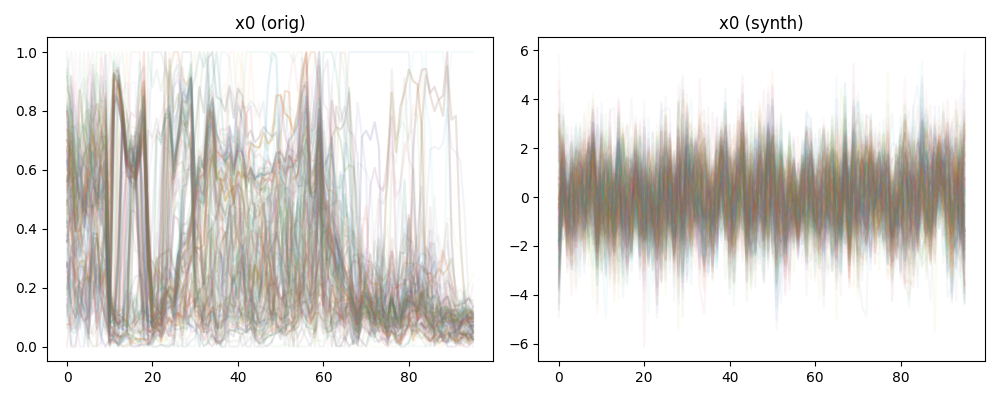
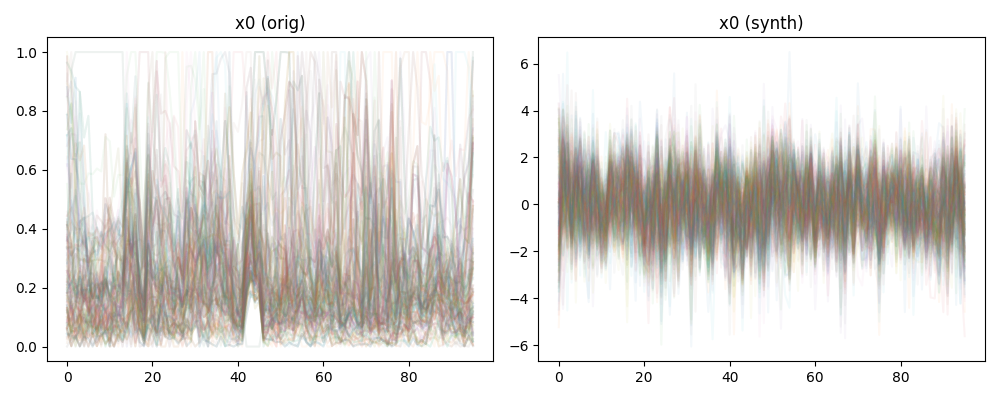
add

Changed region(s): [[0.062, 0.12, 0.527, 0.87], [0.558, 0.24, 0.992, 0.78], [0.496, 0.12, 0.527, 0.18]]

diff --git a/exp/exp_second_round/eva/evaconditionalgen/eva_function.py b/exp/exp_second_round/eva/evaconditionalgen/eva_function.py
@@ -225,7 +225,7 @@ def plot_mmd_comparison(mmd_rr_part_collection, mmd_rt_collection, mmd_rtimesnet
 
     plt.show()
 
-def plot_colored_curves(ax, data, title, total_consumption, color_map, norm, y_min, y_max, alpha=0.2, tick_fontsize=20, display_title=True, title_fontsize=30):
+def plot_colored_curves(num, ax, data, title, total_consumption, color_map, norm, y_min, y_max, alpha=0.2, tick_fontsize=20, display_title=True, title_fontsize=30):
     for i in range(data.shape[0]):
         color = color_map(norm(total_consumption[i]))
         ax.plot(data[i], c=color, alpha=alpha)
@@ -242,6 +242,10 @@ def plot_colored_curves(ax, data, title, total_consumption, color_map, norm, y_m
     ax.set_xticklabels(hours, fontsize=tick_fontsize)
     # Rotate the x-axis labels for better readability
     plt.setp(ax.get_xticklabels(), rotation=45, ha='right', rotation_mode='anchor')
+    # add a small text box to indicate the num
+    text = "Sample Index: {}".format(num)
+    ax.text(0.02, 0.95, text, transform=ax.transAxes, fontsize=tick_fontsize, verticalalignment='top', bbox=dict(boxstyle='round', facecolor='white', alpha=0.5))
+    
 
 def create_plots(t_samples_list, r_samples_list, r_samples_part_list, timesnet_sample_list, path, label_fontsize=26, tick_fontsize=20):
     # Determine the number of rows based on the number of sample sets
@@ -270,11 +274,11 @@ def create_plots(t_samples_list, r_samples_list, r_samples_part_list, timesnet_s
         title_fontsize = label_fontsize if display_title else 0  # Increase font size for the first row titles
 
         # Define titles only for the first row
-        titles = ['Complete ECP Data', 'Sampled Data', 'Our Method', 'Conditional VAE']
+        titles = [f'Complete ECP Data {row}', 'Sampled Data', 'Our Method', 'Conditional VAE']
 
-        plot_colored_curves(axs[row, 0], r_samples, titles[0], total_consumption, color_map, norm, y_min, y_max, 0.2, tick_fontsize, display_title, title_fontsize)
+        plot_colored_curves( axs[row, 0], r_samples, titles[0], total_consumption, color_map, norm, y_min, y_max, 0.2, tick_fontsize, display_title, title_fontsize)
         plot_colored_curves(axs[row, 1], r_samples_part, titles[1], total_consumption, color_map, norm, y_min, y_max, 0.5, tick_fontsize, display_title, title_fontsize)
-        plot_colored_curves(axs[row, 2], t_samples, titles[2], total_consumption, color_map, norm, y_min, y_max, 0.2, tick_fontsize, display_title, title_fontsize)
+        plot_colored_curves( axs[row, 2], t_samples, titles[2], total_consumption, color_map, norm, y_min, y_max, 0.2, tick_fontsize, display_title, title_fontsize)
         plot_colored_curves(axs[row, 3], timesnet_sample, titles[3], total_consumption, color_map, norm, y_min, y_max, 0.2, tick_fontsize, display_title, title_fontsize)
 
         # Add a color bar next to the last plot in this row
@@ -337,10 +341,10 @@ def create_plots2(t_samples_list, r_samples_list, r_samples_part_list, timesnet_
         # Define titles only for the first row
         titles = ['Complete ECP Data', 'Sampled Data', 'Conditional Flow', 'Conditional DDPM']
 
-        plot_colored_curves(axs[row, 0], r_samples, titles[0], total_consumption, color_map, norm, y_min, y_max, 0.2, tick_fontsize, display_title, title_fontsize)
-        plot_colored_curves(axs[row, 1], r_samples_part, titles[1], total_consumption, color_map, norm, y_min, y_max, 0.5, tick_fontsize, display_title, title_fontsize)
-        plot_colored_curves(axs[row, 2], t_samples, titles[2], total_consumption, color_map, norm, y_min, y_max, 0.2, tick_fontsize, display_title, title_fontsize)
-        plot_colored_curves(axs[row, 3], timesnet_sample, titles[3], total_consumption, color_map, norm, y_min, y_max, 0.2, tick_fontsize, display_title, title_fontsize)
+        plot_colored_curves(row, axs[row, 0], r_samples, titles[0], total_consumption, color_map, norm, y_min, y_max, 0.2, tick_fontsize, display_title, title_fontsize)
+        plot_colored_curves(row, axs[row, 1], r_samples_part, titles[1], total_consumption, color_map, norm, y_min, y_max, 0.5, tick_fontsize, display_title, title_fontsize)
+        plot_colored_curves(row, axs[row, 2], t_samples, titles[2], total_consumption, color_map, norm, y_min, y_max, 0.2, tick_fontsize, display_title, title_fontsize)
+        plot_colored_curves(row, axs[row, 3], timesnet_sample, titles[3], total_consumption, color_map, norm, y_min, y_max, 0.2, tick_fontsize, display_title, title_fontsize)
 
         # Add a color bar next to the last plot in this row
         divider = make_axes_locatable(axs[row, 3])

diff --git a/exp/exp_second_round/eva/evaconditionalgen/plot_result_ddpm_flow.py b/exp/exp_second_round/eva/evaconditionalgen/plot_result_ddpm_flow.py
@@ -21,8 +21,8 @@ import exp_second_round.eva.evaconditionalgen.eva_function as eva_function
 
 # -----------------------------------Load model and data-----------------------------------
 # import the dataloader
-batch_size = 50
-split_ratio = (0.8,0.1,0.1)
+batch_size = 80
+split_ratio = (0 ,1, 0)
 data_path =  'exp/data_process_for_data_collection_all/new_data_15minute_grid_nomerge.pkl'
 dataset = Dataloader_nolabel(data_path,  batch_size=batch_size
                     , split_ratio=split_ratio)
@@ -76,7 +76,8 @@ elif random_sample_num_vae ==32:
 flow.load_state_dict(torch.load(path, map_location=device))
 
 # load data
-test_sample = dataset.load_test_data(batch_size, _sample_indx=[58,59])  # (B,N,L)
+_sample_indx=[17, 23]
+test_sample = dataset.load_test_data(batch_size, _sample_indx)  # (B,N,L)
 print('test sample shape: ', test_sample.shape)
 # Use 5 and 6 th sample for testing
 
@@ -119,7 +120,8 @@ f_samples_list = []
 r_samples_list = []
 r_samples_part_list = []
 ddpm_sample_list = []
-for i in range(2):
+for i in range(len(_sample_indx)):
+    print('Processing sample: ', i/len(_sample_indx))
     # samples scaled
     samples_ddpm = recon[i]
     samples_partial = _test_sample_part[i]
